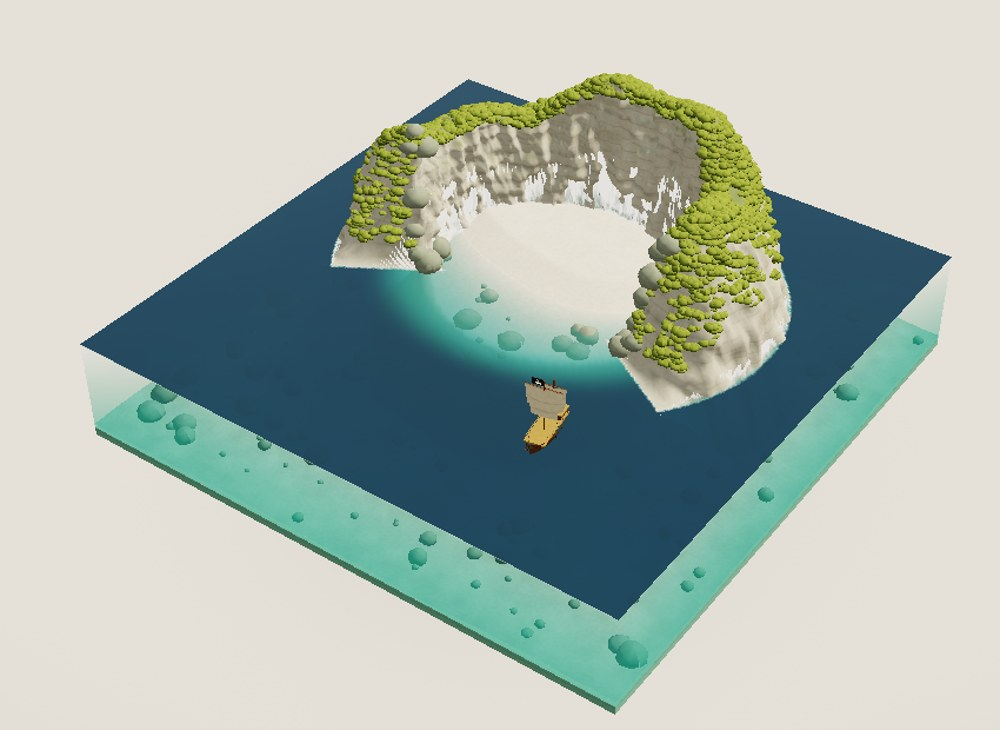
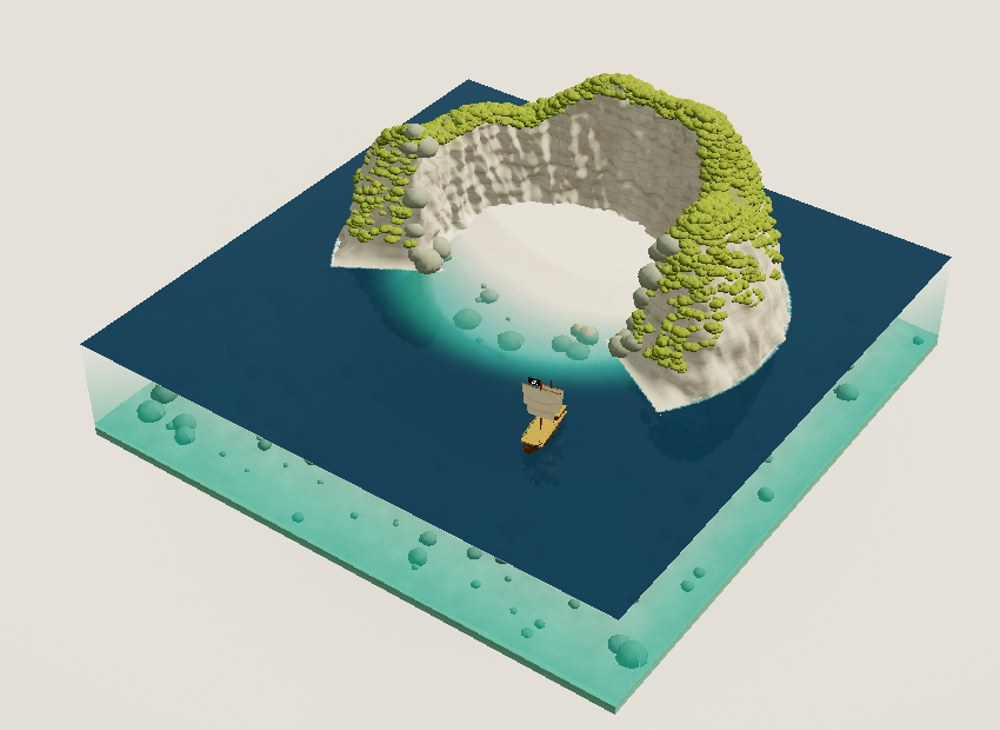
fix(water): mask dry terrain and add coherent coast reflections

diff --git a/models/miniature-water/js/main.js b/models/miniature-water/js/main.js
@@ -56,7 +56,7 @@
   const SKY_BOT = [0.20, 0.34, 0.43];
 
   /* ============================================================ 帧缓冲 */
-  let fboMain = null, fboUnder = null, shadowFbo = null;
+  let fboMain = null, fboUnder = null, fboReflection=null, shadowFbo = null;
   let W = 1, H = 1, DPR = 1;
 
   function resize() {
@@ -73,11 +73,12 @@
       if (f.depth) gl.deleteRenderbuffer(f.depth);
       gl.deleteFramebuffer(f.fbo);
     };
-    del(fboMain); del(fboUnder);
+    del(fboMain); del(fboUnder);del(fboReflection);
     const hdr = extCBF ? { internal: gl.RGBA16F, format: gl.RGBA, type: gl.HALF_FLOAT }
       : { internal: gl.RGBA8, format: gl.RGBA, type: gl.UNSIGNED_BYTE };
     fboMain = GLU.fbo(gl, W, H, Object.assign({ depth: true }, hdr));
     fboUnder = GLU.fbo(gl, W, H, Object.assign({ depth: true }, hdr));
+    fboReflection = GLU.fbo(gl, Math.max(2,Math.floor(W*.5)), Math.max(2,Math.floor(H*.5)), Object.assign({depth:true},hdr));
   }
 
   /* ================================== 地表高度贴图（海底 + 拱 + 矮崖）
@@ -335,7 +336,7 @@
 
   const solidUniforms = {
     uSunDir: SUN_DIR, uSunColor: SUN_COL, uSkyAmb: SKY_AMB, uGroundAmb: GND_AMB,
-    uFogDensity: 0.00015, uShadowTexel: 1 / 2048, uAlpha: 1, uSeaLevel: 0,
+    uReflectionPass:0,uFogDensity: 0.00015, uShadowTexel: 1 / 2048, uAlpha: 1, uSeaLevel: 0,
     uShallowTint: [0.36, 0.82, 0.80], uLightVP: mtx.lightVP,
   };
 
@@ -391,6 +392,21 @@
     }
     gl.enable(gl.CULL_FACE);
     chk('shadow');
+
+    // Mirror geometry across the mean water plane; this adds coherent island
+    // and sail reflections, rather than painting bright rings on the surface.
+    const mirror=M4.fromScale(M4.create(),[1,-1,1]);
+    const reflectedVP=M4.mul(M4.create(),mtx.vp,mirror);
+    const mirrorCamera=[cam.pos[0],-cam.pos[1],cam.pos[2]];
+    GLU.bindTarget(gl,fboReflection);gl.clearColor(.35,.48,.56,1);gl.clear(gl.COLOR_BUFFER_BIT|gl.DEPTH_BUFFER_BIT);
+    gl.enable(gl.DEPTH_TEST);gl.depthMask(true);gl.disable(gl.CULL_FACE);
+    const reflectUniforms=Object.assign({},solidUniforms,{uReflectionPass:1,uVP:reflectedVP,uCamPos:mirrorCamera,uTime:t});
+    progSolid.use().set(reflectUniforms);progSolid.tex('uShadowMap',shadowFbo.tex,0);
+    for(const p of scene.placements){if(p.name==='seabed')continue;drawSolid(progSolid,p.name,M4.compose(mtx.model,p.pos,[0,p.rotY,0],[p.scale,p.scale,p.scale]),p.tint);}
+    drawSolid(progSolid,'pirateShip',shipPose,[1,1,1]);
+    progSolidI.use().set(reflectUniforms);progSolidI.tex('uShadowMap',shadowFbo.tex,0);
+    for(let i=0;i<2;i++){if(!mossGroups[i].length)continue;const gm=scene.meshes['moss'+i];fillInstances(gm,mossGroups[i]);GLU.drawMesh(gl,gm,mossGroups[i].length);}
+    gl.enable(gl.CULL_FACE);chk('reflection');
 
     // ---- 3. 水下场景（给水面折射用）----
     gl.bindFramebuffer(gl.FRAMEBUFFER, fboUnder.fbo);
@@ -522,6 +538,8 @@
     progWater.tex('uWave', wave.normalTex, 0);
     progWater.tex('uUnder', fboUnder.color, 1);
     progWater.tex('uDepthTex', bedTexRef, 2);
+    progWater.tex('uFluid',wave.tex,3);
+    progWater.tex('uMirror',fboReflection.color,4);
     gl.disable(gl.CULL_FACE);
     gl.bindVertexArray(waterVAO);
     gl.drawElements(gl.TRIANGLES, waterCount, gl.UNSIGNED_INT, 0);

diff --git a/models/miniature-water/js/shaders.js b/models/miniature-water/js/shaders.js
@@ -139,6 +139,7 @@ uniform vec3 uSunColor;
 uniform vec3 uSkyAmb;
 uniform vec3 uGroundAmb;
 uniform float uFogDensity;
+uniform float uReflectionPass;
 uniform mat4 uLightVP;
 uniform highp sampler2DShadow uShadowMap;
 uniform float uShadowTexel;
@@ -183,6 +184,7 @@ float caustics(vec2 p, float t){
 }
 
 void main(){
+  if(uReflectionPass>.5&&vWorld.y<.05)discard;
   vec3 N = normalize(vNrm);
   vec3 V = normalize(uCamPos - vWorld);
   if (!gl_FrontFacing) N = -N;
@@ -273,7 +275,7 @@ void main(){
   vec3 p = vec3(wp.x, uSeaLevel + h, wp.y);
   vWorld = p;
   vLocal = wp;
-  vNrm = normalize(vec3(n.x, 1.0, n.z));
+  vNrm = n;
   vH = h;
   gl_Position = uVP * vec4(p, 1.0);
 }`;
@@ -293,6 +295,8 @@ uniform vec3 uSkyTop;
 uniform vec3 uSkyBot;
 uniform vec3 uSkyAmb;
 uniform sampler2D uWave;
+uniform sampler2D uMirror;
+uniform sampler2D uFluid;
 uniform sampler2D uUnder;        // 水下场景（水面折射的来源）
 uniform sampler2D uDepthTex;     // 高度图，用来判岸线与水深
 uniform vec2 uRes;
@@ -315,6 +319,7 @@ float fresnelDiel(float cosT, float eta){
 void main(){
   vec2 uv = gl_FragCoord.xy / uRes;
   vec2 wuv = vLocal / uExtent + 0.5;
+  if(texture(uFluid,wuv).a<.025)discard;
   float bed = texture(uDepthTex, wuv).r;   // 地表高度（海底 + 岛）
   float depth = max(0.0, vWorld.y-bed);
   if (depth < 0.05) discard;                           // 岛上不画水
@@ -343,6 +348,8 @@ void main(){
   vec3 refl = mix(uSkyBot, uSkyTop, clamp(R.y * 0.5 + 0.5, 0.0, 1.0));
   float softbox=pow(max(0.,dot(R,normalize(vec3(-.8,1.,.35)))),12.);
   refl += vec3(.8,.86,.88)*softbox*.18;
+  vec3 mirror=texture(uMirror,clamp(uv+N.xz*.012,vec2(.001),vec2(.999))).rgb;
+  refl=mix(refl,mirror,.82);
 
   /* 关键：海底画面要沿水柱做 Beer-Lambert 衰减。
      没有这一步，25 米深的海底照样清清楚楚地透上来，整片海就成了浅绿玻璃。 */

diff --git a/models/miniature-water/index.html b/models/miniature-water/index.html
@@ -3,7 +3,7 @@
 <head>
 <meta charset="utf-8">
 <meta name="viewport" content="width=device-width,initial-scale=1">
-<meta name="build-version" content="miniature-water-20261016-v5-fluid">
+<meta name="build-version" content="miniature-water-20261016-v6-conservative">
 <title>一方水世界 · A World Within Water</title>
 <style>
   :root{
@@ -159,14 +159,14 @@
   <span><b id="stat">WebGL2</b> &nbsp;·&nbsp; <span class="k" id="fps">– fps</span></span>
 </footer>
 
-<script src="js/math.js"></script>
-<script src="js/gl.js"></script>
-<script src="js/geom.js"></script>
-<script src="js/shaders.js"></script>
-<script src="js/wave.js"></script>
-<script src="js/island.js"></script>
-<script src="js/ship.js"></script>
-<script src="js/ui.js"></script>
-<script src="js/main.js"></script>
+<script src="js/math.js?v=20261016-fluid6"></script>
+<script src="js/gl.js?v=20261016-fluid6"></script>
+<script src="js/geom.js?v=20261016-fluid6"></script>
+<script src="js/shaders.js?v=20261016-fluid6"></script>
+<script src="js/wave.js?v=20261016-fluid6"></script>
+<script src="js/island.js?v=20261016-fluid6"></script>
+<script src="js/ship.js?v=20261016-fluid6"></script>
+<script src="js/ui.js?v=20261016-fluid6"></script>
+<script src="js/main.js?v=20261016-fluid6"></script>
 </body>
 </html>

diff --git a/models/miniature-water/js/ship.js b/models/miniature-water/js/ship.js
@@ -68,8 +68,10 @@ function make(){
 const SHIP={x:-21,z:-25,y:0,rx:0,rz:0,heading:-.58};
 SHIP.init=scene=>scene.mesh('pirateShip',make());
 SHIP.update=function(dt,t,water){
- const x=-21+Math.sin(t*.12)*.6,z=-25+Math.cos(t*.13)*.4;
- const surface=water.sample(x,z),n=surface.normal;
+ const surface=water.sample(SHIP.x,SHIP.z),n=surface.normal;
+ SHIP.vx=(SHIP.vx||0)+(surface.flow[0]*.35-(SHIP.vx||0)*1.3-(SHIP.x+21)*.40)*dt;
+ SHIP.vz=(SHIP.vz||0)+(surface.flow[1]*.35-(SHIP.vz||0)*1.3-(SHIP.z+25)*.40)*dt;
+ const x=clamp(SHIP.x+SHIP.vx*dt,-28,-14),z=clamp(SHIP.z+SHIP.vz*dt,-33,-18);
  const smooth=1-Math.exp(-dt*5);
  const heading=.15+Math.sin(t*.17)*.035;
  const dx=-n[0]/Math.max(n[1],.2),dz=-n[2]/Math.max(n[1],.2);

diff --git a/models/miniature-water/js/wave.js b/models/miniature-water/js/wave.js
@@ -50,7 +50,7 @@ void main(){
  vec4 d=texture(uState,vUv-vec2(0,uTexel.y)),u=texture(uState,vUv+vec2(0,uTexel.y));
  float hl=l.a>.01?l.r:c.r,hr=r.a>.01?r.r:c.r,hd=d.a>.01?d.r:c.r,hu=u.a>.01?u.r:c.r;
  vec3 n=normalize(vec3((hl-hr)/(2.*uDx),1.,(hd-hu)/(2.*uDx)));
- fragColor=vec4(n*.5+.5,c.r);
+ fragColor=vec4(n*.5+.5,c.a>.01?c.r:0.);
 }`;
 function create(gl,GLU,quad,bedTexture){
  if(!gl.getExtension('EXT_color_buffer_float'))throw Error('此水体需要浮点 WebGL2 支持，请使用较新的 Chrome / Safari。');
